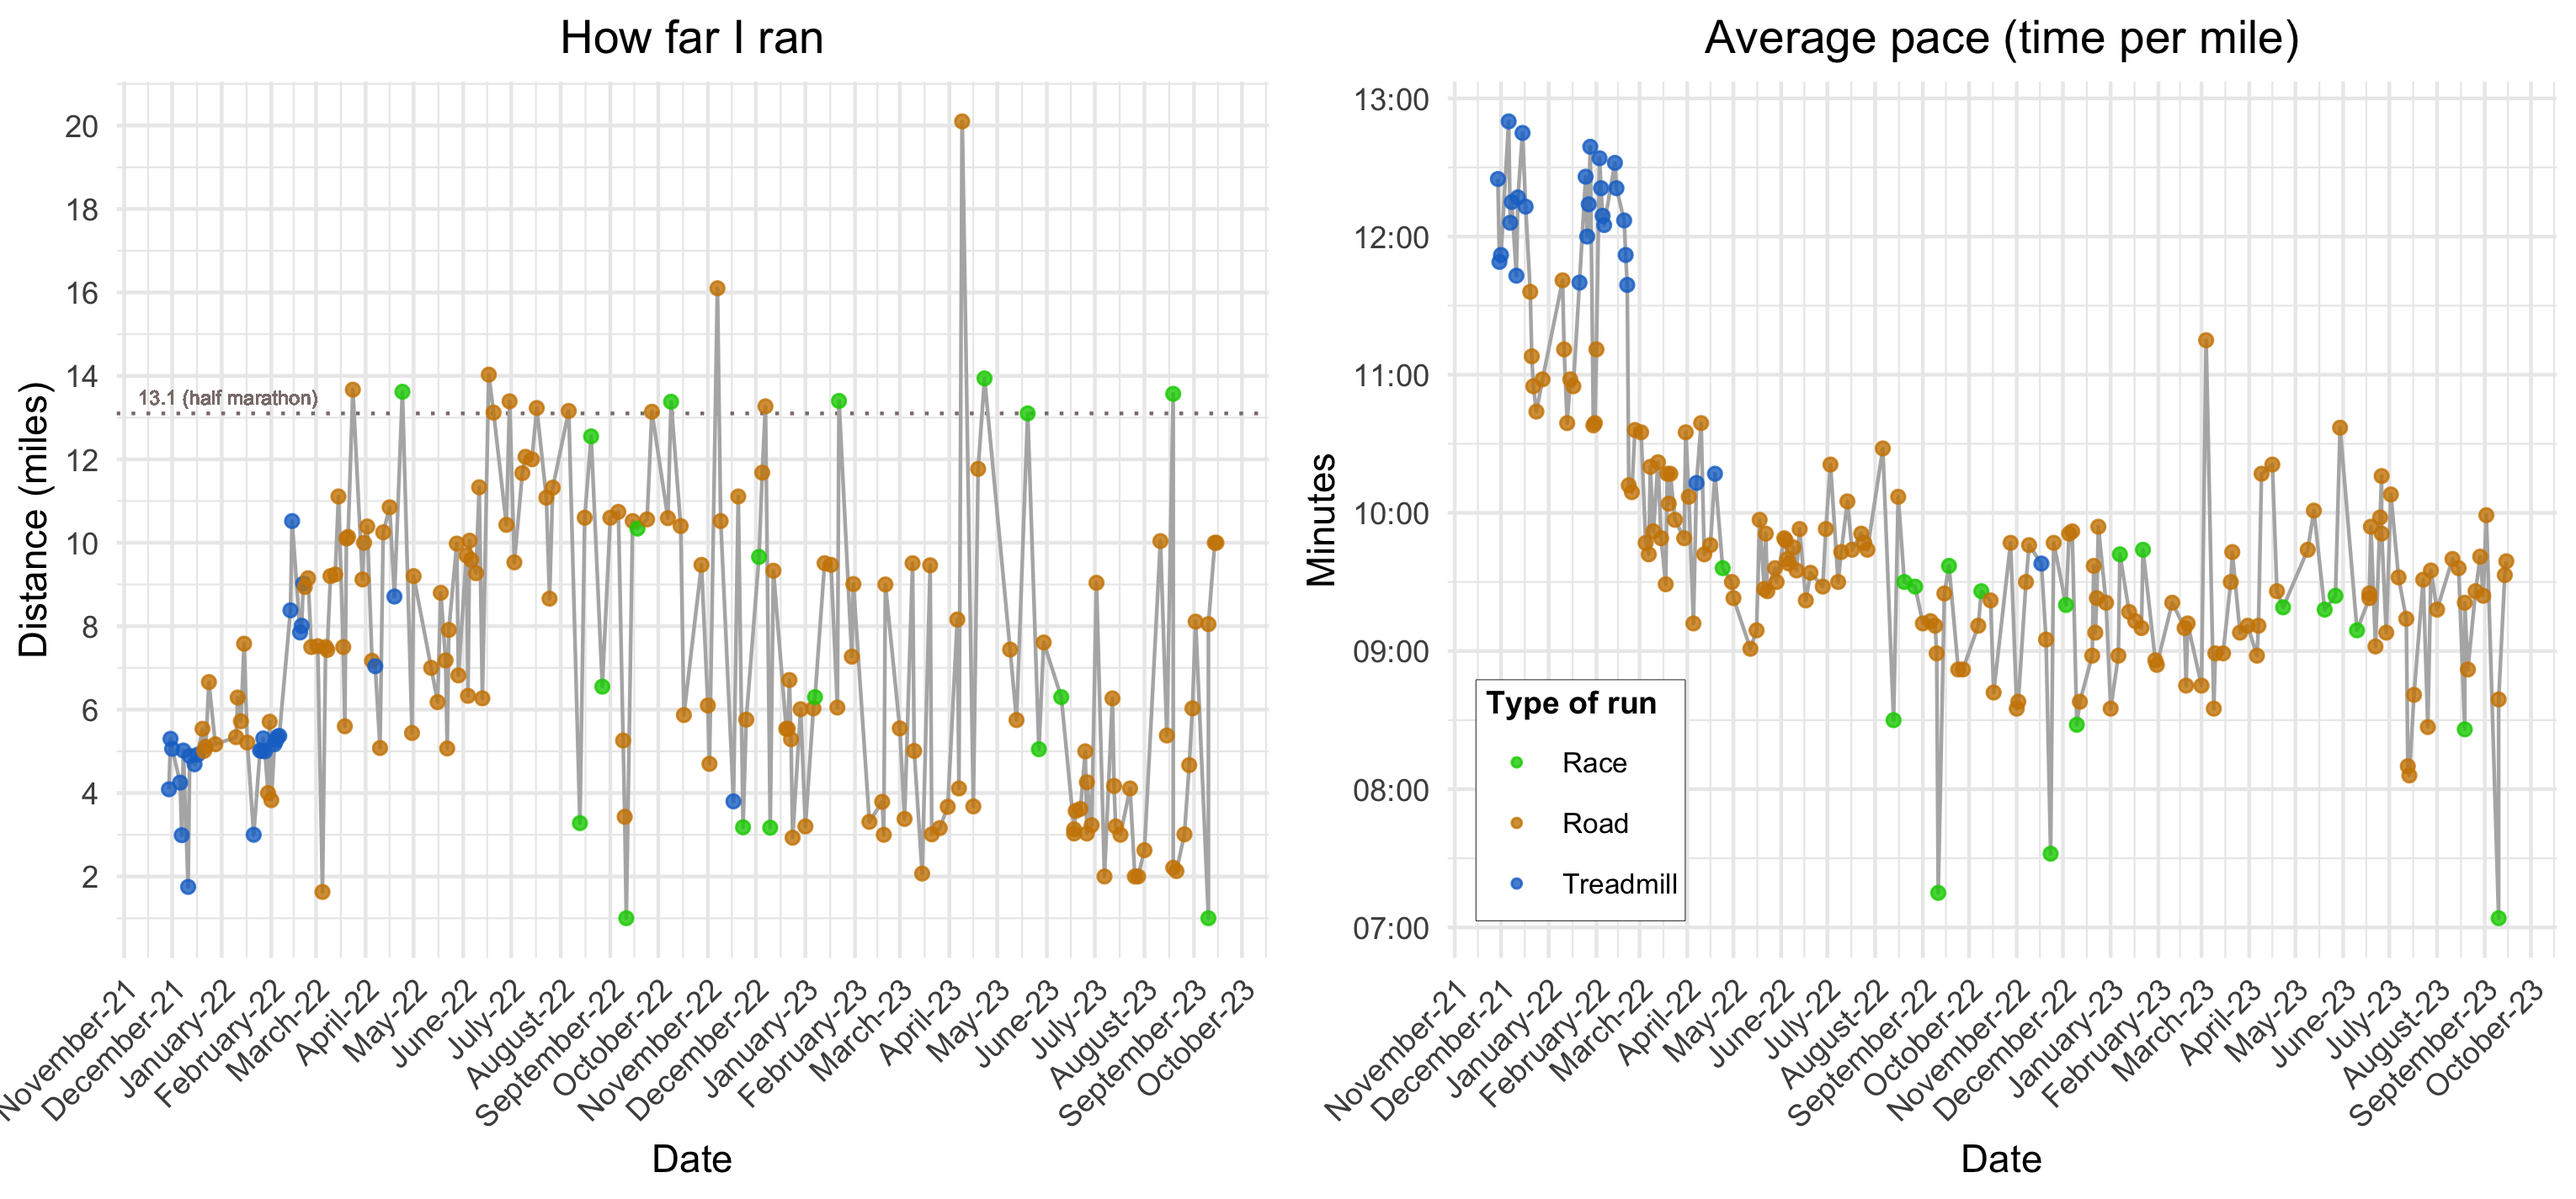
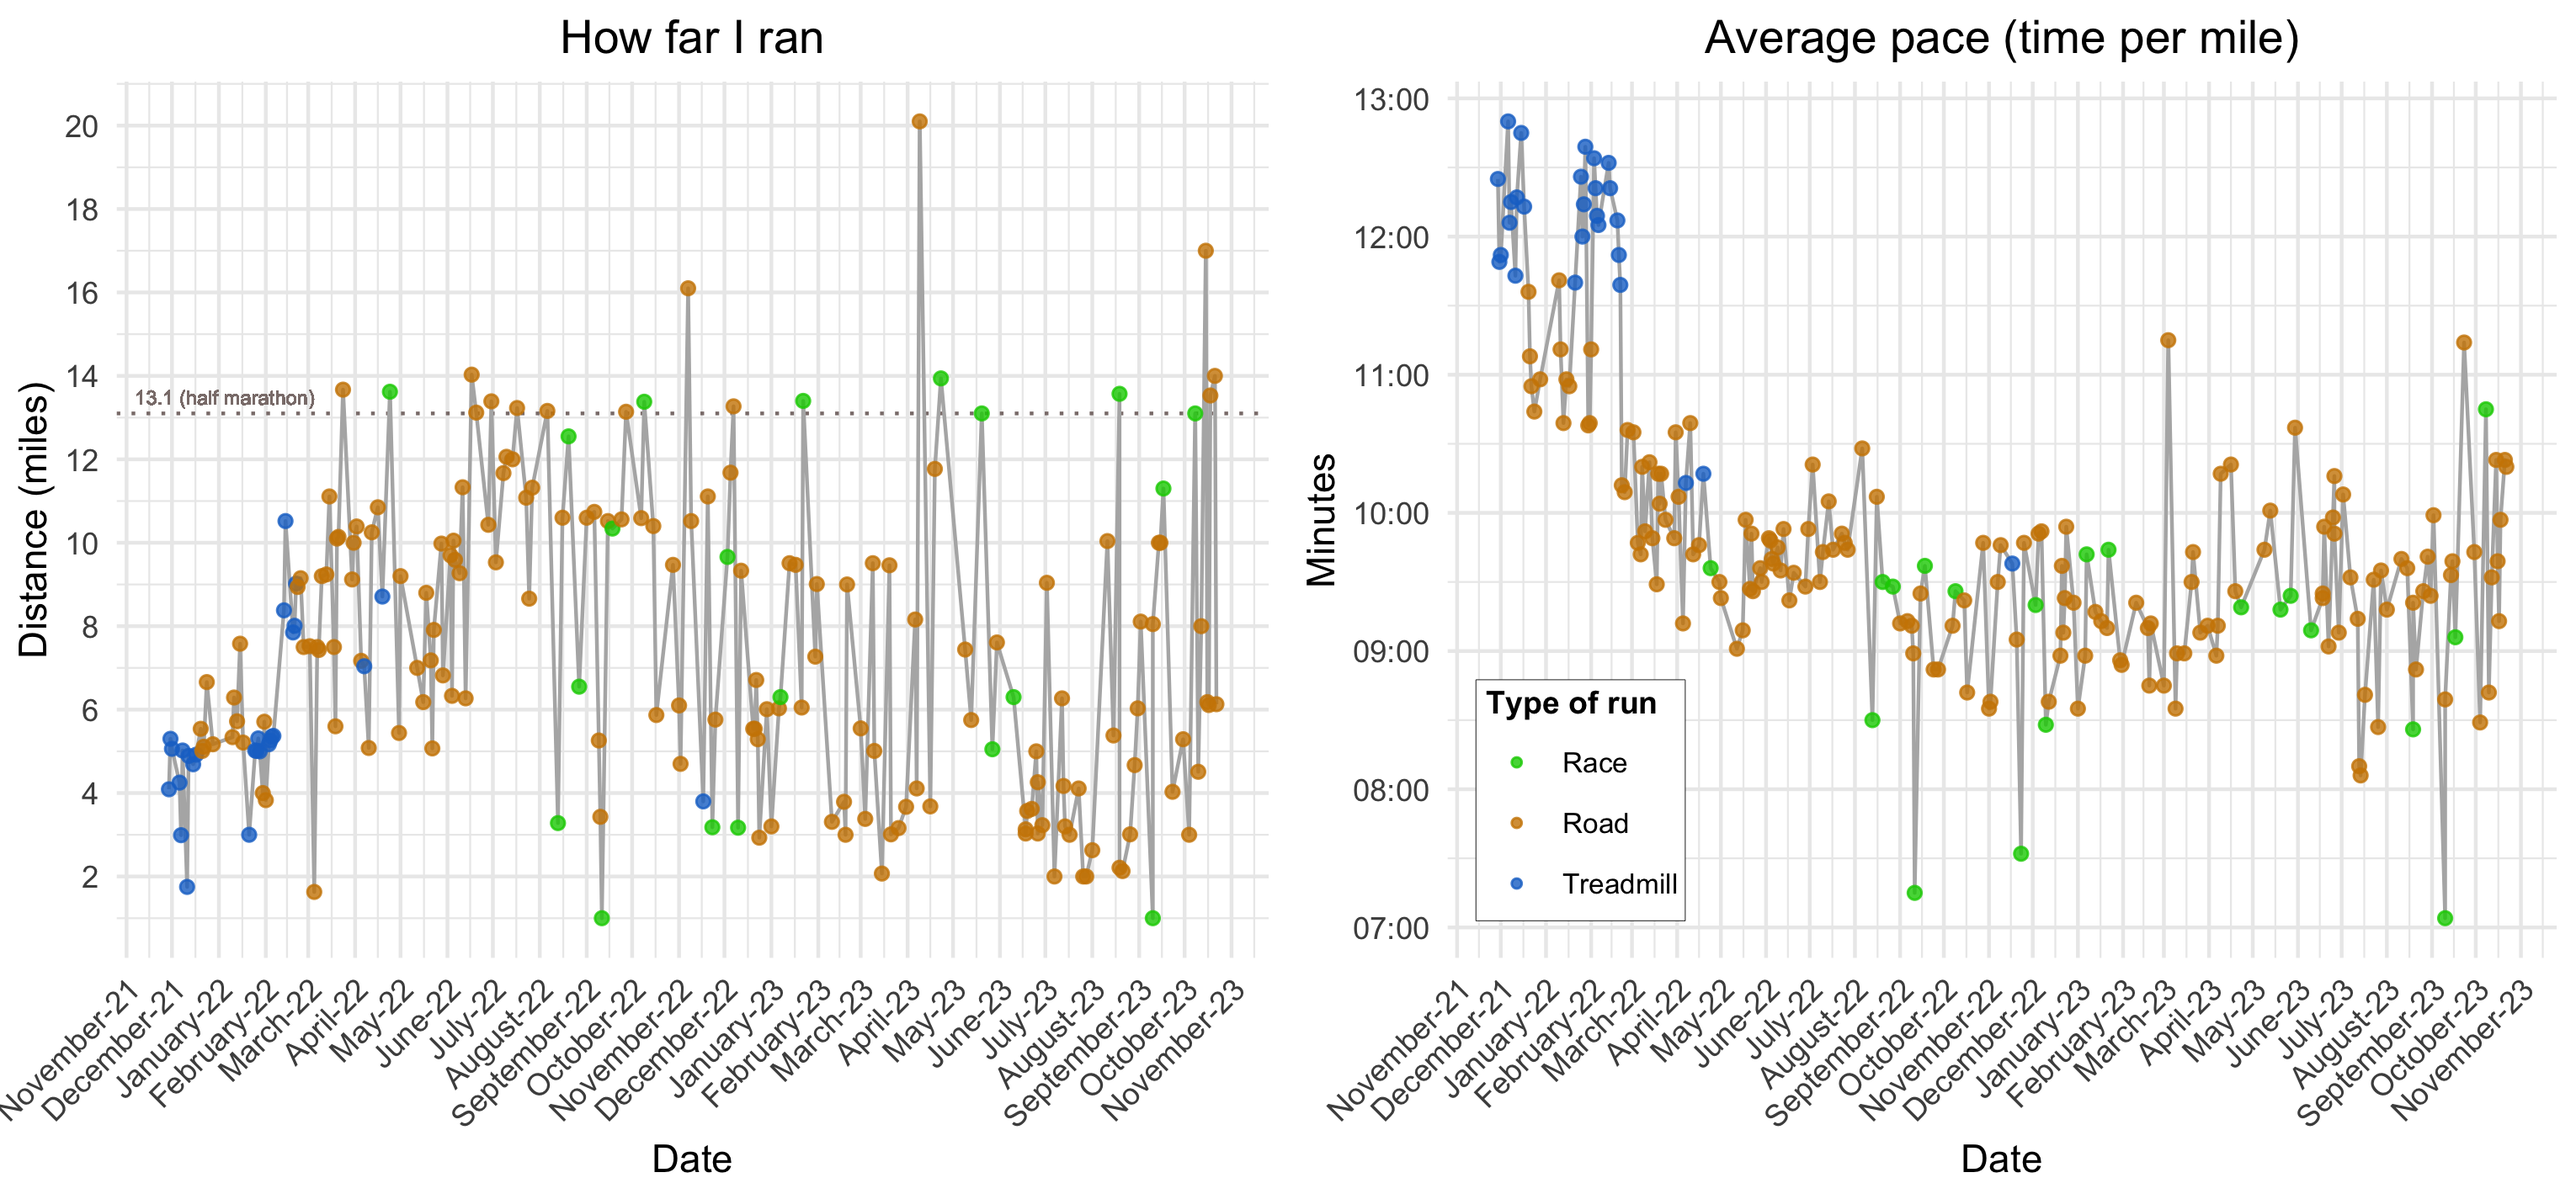
9/17/23 through 10/22/23

Changed region(s): [[0.0, 0.0618, 0.4967, 0.9263], [0.5278, 0.0618, 0.9935, 0.9572], [0.4967, 0.8954, 0.5278, 0.9263]]

diff --git a/README.md b/README.md
@@ -26,4 +26,4 @@ Total miles since 11/29/21:
 sum(runningData$Miles)
 ```
 
-    ## [1] 1402
+    ## [1] 1514.18
